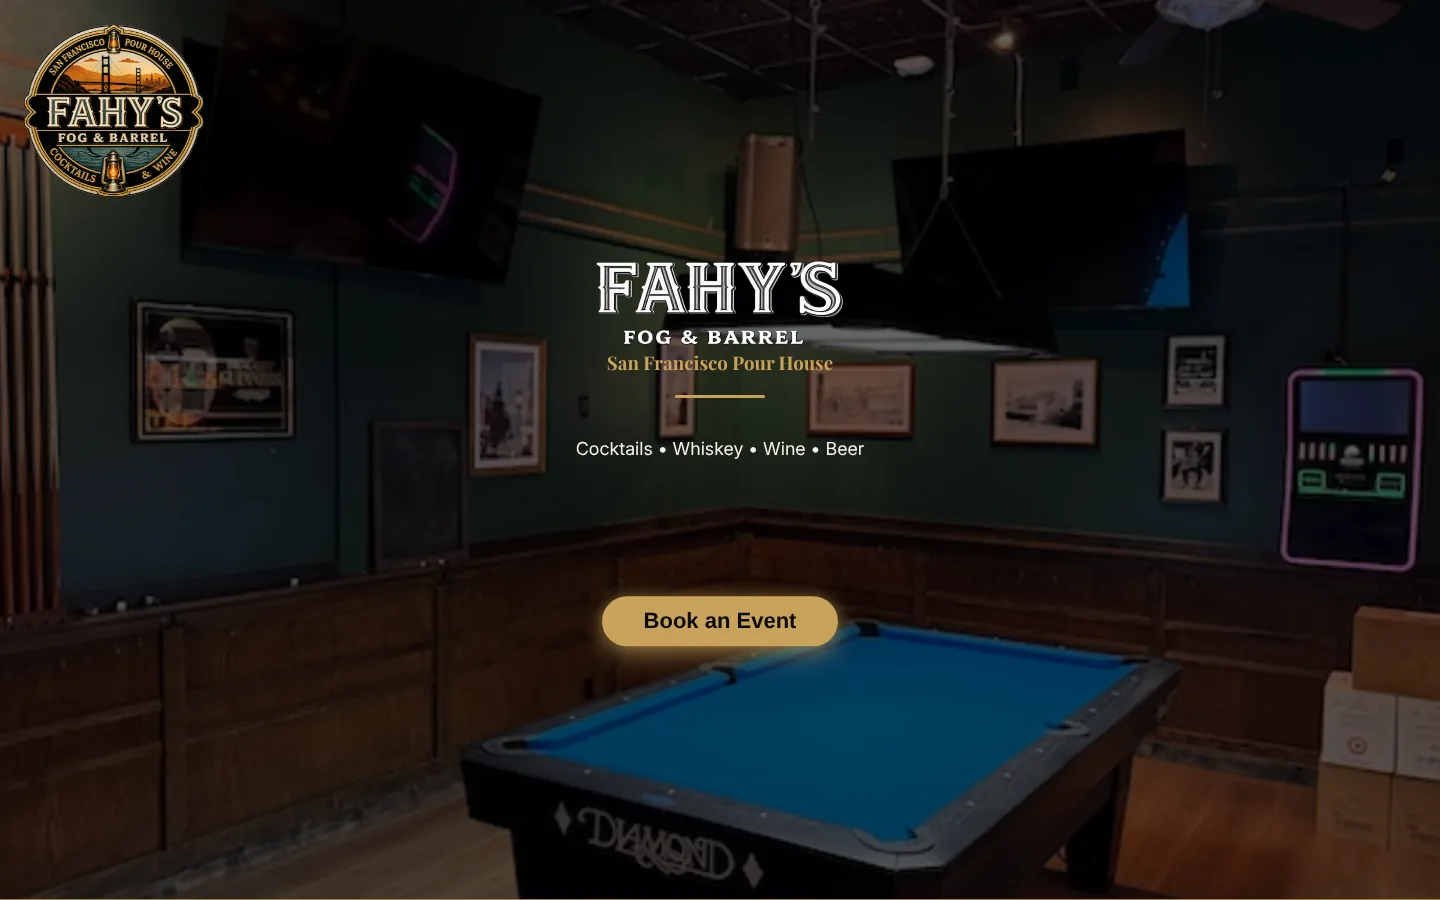
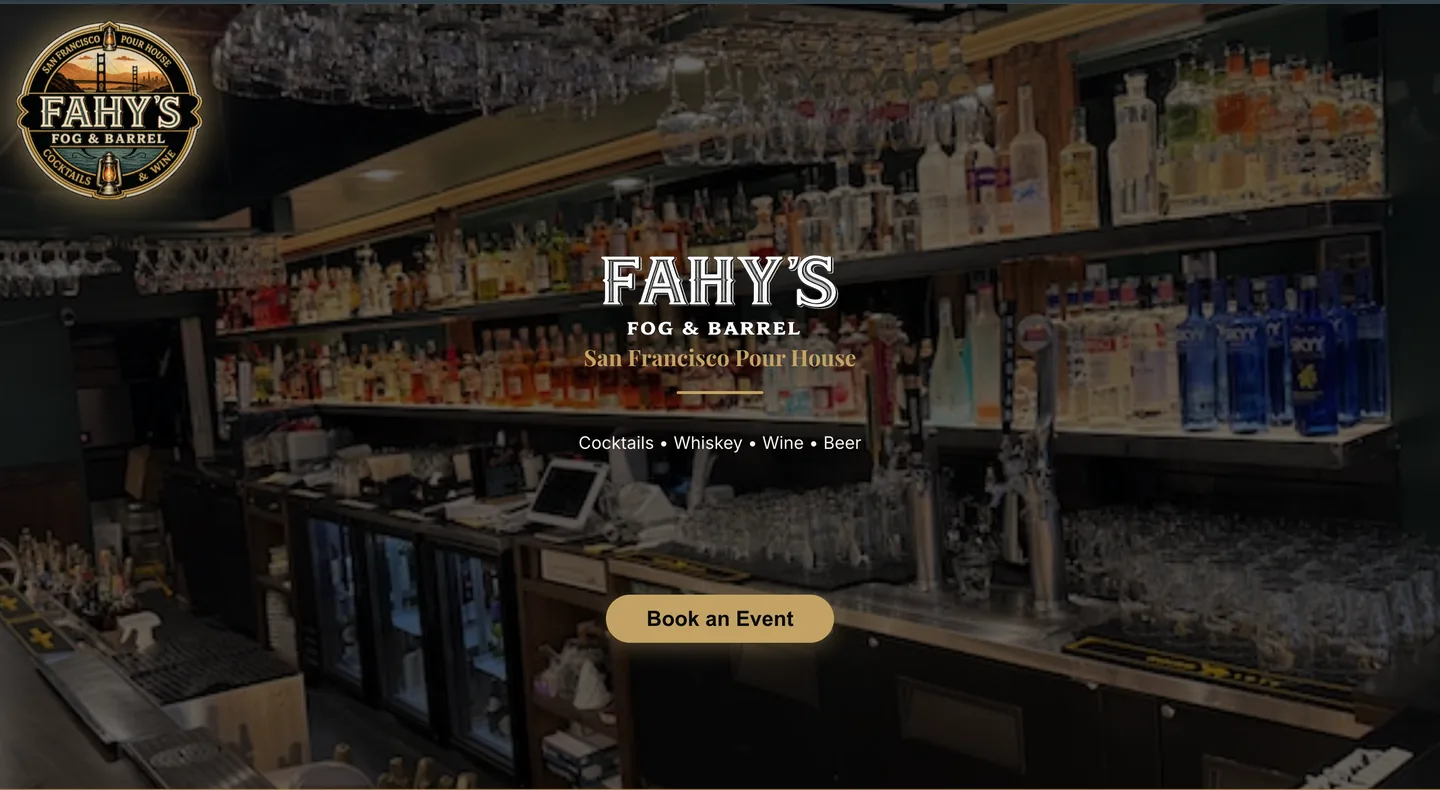
Fahy's: owner's back-bar screenshot for the card, project lead image and desktop view
Claude-Session: https://claude.ai/code/session_012DnLqXSNchz9XpLeFV2W17

diff --git a/work-fahys.html b/work-fahys.html
@@ -35,7 +35,7 @@
       <a class="nav-cta" href="contact.html">Start</a>
     </nav>
     </div>
-  </header><main id="main-content" tabindex="-1"><section class="project-intro"><div class="container"><a class="project-back" href="portfolio.html">← All our work</a><div class="project-lead-grid"><div><span class="pill">Logo, website and menu design</span><h1>Fahy’s Fog &amp; Barrel</h1><p>A San Francisco pour house for cocktails, whiskey, wine and beer. We reworked the bar’s logo from its street sign into a clean badge and wordmark, then built the website and cocktail menu around it.</p><a class="project-full-link" href="assets/work/fahys-source-desktop.webp" target="_blank" rel="noopener">Open the full desktop view <span aria-hidden="true">↗</span></a> · <a class="project-full-link" href="https://fahyspub.com/" target="_blank" rel="noopener">Visit fahyspub.com <span aria-hidden="true">↗</span></a></div><img class="project-lead-image" src="assets/work/fahys-website.webp" alt="Fahy’s Fog and Barrel homepage with the round badge, the Fahy’s wordmark and a Book an Event button over a photo of the bar’s pool room" width="1000" height="625"></div></div></section><section class="container project-section"><div class="project-story-grid"><article><h2>Project focus</h2><p>Turn the bar’s existing sign into a logo that holds up everywhere, from a phone screen to a printed menu, and give the bar a website for drinks and event bookings.</p></article><article><h2>What we made</h2><ul><li>A redrawn round badge and a matching wordmark, in versions for dark and light backgrounds.</li><li>A one-page website with the bar’s story, signature cocktails, location and event booking.</li><li>A cocktail menu in the same cream, green and gold palette.</li></ul></article><article><h2>Design choices</h2><p>The badge keeps the sign’s Golden Gate Bridge and lanterns but redraws the lettering so it reads clearly at small sizes. On the website, the clean wordmark sits over photos of the bar so the room itself sets the mood.</p></article></div><p class="project-record-note">From our project archive. Layouts and content reflect the original project files.</p></section><section class="container project-section" aria-labelledby="logo-title"><header class="project-section-head"><h2 id="logo-title">Logo modifications</h2><p>From the street sign to the final badge and wordmark.</p></header><div class="project-logo-grid"><figure><img src="assets/work/fahys-logo-1-original-sign.webp" alt="Fahy’s hanging street sign outside the bar on a San Francisco sidewalk" width="480" height="640" loading="lazy"><figcaption>The original street sign</figcaption></figure><figure><img src="assets/work/fahys-logo-2-first-redraw.webp" alt="First digital redraw of the round Fahy’s badge, with the Golden Gate Bridge, lanterns and San Francisco Pour House lettering" width="320" height="314" loading="lazy"><figcaption>First redraw of the badge</figcaption></figure><figure><img src="assets/work/fahys-logo-3-final-badge.webp" alt="Final round Fahy’s Fog and Barrel badge with cleaner lettering, the Golden Gate Bridge and two lanterns" width="300" height="294" loading="lazy"><figcaption>Final badge</figcaption></figure><figure><img src="assets/work/fahys-logo-4-sign-wordmark.webp" alt="Fahy’s Fog and Barrel wordmark in cream and grey on a red sign panel" width="640" height="319" loading="lazy"><figcaption>Sign-style wordmark</figcaption></figure><figure><img src="assets/work/fahys-logo-5-white-wordmark.webp" alt="Fahy’s Fog and Barrel wordmark in white with a dark drop shadow" width="640" height="283" loading="lazy"><figcaption>White wordmark</figcaption></figure><figure><img src="assets/work/fahys-logo-6-final-wordmark.webp" alt="Final clean white Fahy’s Fog and Barrel wordmark used on the website" width="500" height="172" loading="lazy"><figcaption>Final wordmark</figcaption></figure></div></section><section class="container project-section" aria-labelledby="views-title"><header class="project-section-head"><h2 id="views-title">From the actual project files</h2><p>Desktop and mobile views rendered from the website source.</p></header><div class="project-view-grid"><figure><img src="assets/work/fahys-source-desktop.webp" alt="Desktop layout of the Fahy’s Fog and Barrel website" width="1440" height="900" loading="lazy"><figcaption>Desktop view · website source</figcaption></figure><figure class="project-mobile-view"><img src="assets/work/fahys-source-mobile.webp" alt="Mobile layout of the Fahy’s Fog and Barrel website" width="390" height="844" loading="lazy"><figcaption>Mobile view · website source</figcaption></figure></div></section><section class="project-next"><div class="container"><h2>What could we build for you?</h2><p>The Website Package builds a finished site of up to 5 pages in your choice of 9 styles.</p><div class="hero-actions"><a class="btn primary" href="contact.html?service=website">Start a Website Package</a><a class="btn ghost" href="website-design.html">See the package</a></div></div></section></main><footer class="footer">
+  </header><main id="main-content" tabindex="-1"><section class="project-intro"><div class="container"><a class="project-back" href="portfolio.html">← All our work</a><div class="project-lead-grid"><div><span class="pill">Logo, website and menu design</span><h1>Fahy’s Fog &amp; Barrel</h1><p>A San Francisco pour house for cocktails, whiskey, wine and beer. We reworked the bar’s logo from its street sign into a clean badge and wordmark, then built the website and cocktail menu around it.</p><a class="project-full-link" href="assets/work/fahys-source-desktop.webp?v=20261029b" target="_blank" rel="noopener">Open the full desktop view <span aria-hidden="true">↗</span></a> · <a class="project-full-link" href="https://fahyspub.com/" target="_blank" rel="noopener">Visit fahyspub.com <span aria-hidden="true">↗</span></a></div><img class="project-lead-image" src="assets/work/fahys-website.webp?v=20261029b" alt="Fahy’s Fog and Barrel homepage with the round badge, the Fahy’s wordmark and a Book an Event button over a photo of the back bar" width="1000" height="549"></div></div></section><section class="container project-section"><div class="project-story-grid"><article><h2>Project focus</h2><p>Turn the bar’s existing sign into a logo that holds up everywhere, from a phone screen to a printed menu, and give the bar a website for drinks and event bookings.</p></article><article><h2>What we made</h2><ul><li>A redrawn round badge and a matching wordmark, in versions for dark and light backgrounds.</li><li>A one-page website with the bar’s story, signature cocktails, location and event booking.</li><li>A cocktail menu in the same cream, green and gold palette.</li></ul></article><article><h2>Design choices</h2><p>The badge keeps the sign’s Golden Gate Bridge and lanterns but redraws the lettering so it reads clearly at small sizes. On the website, the clean wordmark sits over photos of the bar so the room itself sets the mood.</p></article></div><p class="project-record-note">From our project archive. Layouts and content reflect the original project files.</p></section><section class="container project-section" aria-labelledby="logo-title"><header class="project-section-head"><h2 id="logo-title">Logo modifications</h2><p>From the street sign to the final badge and wordmark.</p></header><div class="project-logo-grid"><figure><img src="assets/work/fahys-logo-1-original-sign.webp" alt="Fahy’s hanging street sign outside the bar on a San Francisco sidewalk" width="480" height="640" loading="lazy"><figcaption>The original street sign</figcaption></figure><figure><img src="assets/work/fahys-logo-2-first-redraw.webp" alt="First digital redraw of the round Fahy’s badge, with the Golden Gate Bridge, lanterns and San Francisco Pour House lettering" width="320" height="314" loading="lazy"><figcaption>First redraw of the badge</figcaption></figure><figure><img src="assets/work/fahys-logo-3-final-badge.webp" alt="Final round Fahy’s Fog and Barrel badge with cleaner lettering, the Golden Gate Bridge and two lanterns" width="300" height="294" loading="lazy"><figcaption>Final badge</figcaption></figure><figure><img src="assets/work/fahys-logo-4-sign-wordmark.webp" alt="Fahy’s Fog and Barrel wordmark in cream and grey on a red sign panel" width="640" height="319" loading="lazy"><figcaption>Sign-style wordmark</figcaption></figure><figure><img src="assets/work/fahys-logo-5-white-wordmark.webp" alt="Fahy’s Fog and Barrel wordmark in white with a dark drop shadow" width="640" height="283" loading="lazy"><figcaption>White wordmark</figcaption></figure><figure><img src="assets/work/fahys-logo-6-final-wordmark.webp" alt="Final clean white Fahy’s Fog and Barrel wordmark used on the website" width="500" height="172" loading="lazy"><figcaption>Final wordmark</figcaption></figure></div></section><section class="container project-section" aria-labelledby="views-title"><header class="project-section-head"><h2 id="views-title">From the actual project files</h2><p>Desktop and mobile views rendered from the website source.</p></header><div class="project-view-grid"><figure><img src="assets/work/fahys-source-desktop.webp?v=20261029b" alt="Desktop layout of the Fahy’s Fog and Barrel website" width="1440" height="790" loading="lazy"><figcaption>Desktop view · website source</figcaption></figure><figure class="project-mobile-view"><img src="assets/work/fahys-source-mobile.webp" alt="Mobile layout of the Fahy’s Fog and Barrel website" width="390" height="844" loading="lazy"><figcaption>Mobile view · website source</figcaption></figure></div></section><section class="project-next"><div class="container"><h2>What could we build for you?</h2><p>The Website Package builds a finished site of up to 5 pages in your choice of 9 styles.</p><div class="hero-actions"><a class="btn primary" href="contact.html?service=website">Start a Website Package</a><a class="btn ghost" href="website-design.html">See the package</a></div></div></section></main><footer class="footer">
   <div class="container footer-inner">
     <div class="footer-copy">© 2019–2026 MENU-MADE</div>
 

diff --git a/portfolio.html b/portfolio.html
@@ -89,7 +89,7 @@
         </article>
         <article class="work-card">
           <a class="work-visual" href="work-fahys.html" aria-label="Read the Fahy’s Fog and Barrel logo and website project">
-            <img src="assets/work/fahys-website.webp" alt="Fahy’s Fog and Barrel homepage with the round badge, the Fahy’s wordmark and a Book an Event button over the bar’s pool room" width="1000" height="625" loading="lazy">
+            <img src="assets/work/fahys-website.webp?v=20261029b" alt="Fahy’s Fog and Barrel homepage with the round badge, the Fahy’s wordmark and a Book an Event button over a photo of the back bar" width="1000" height="549" loading="lazy">
           </a>
           <div class="work-copy">
             <p class="work-type">Pour house · Logo and website design</p>
